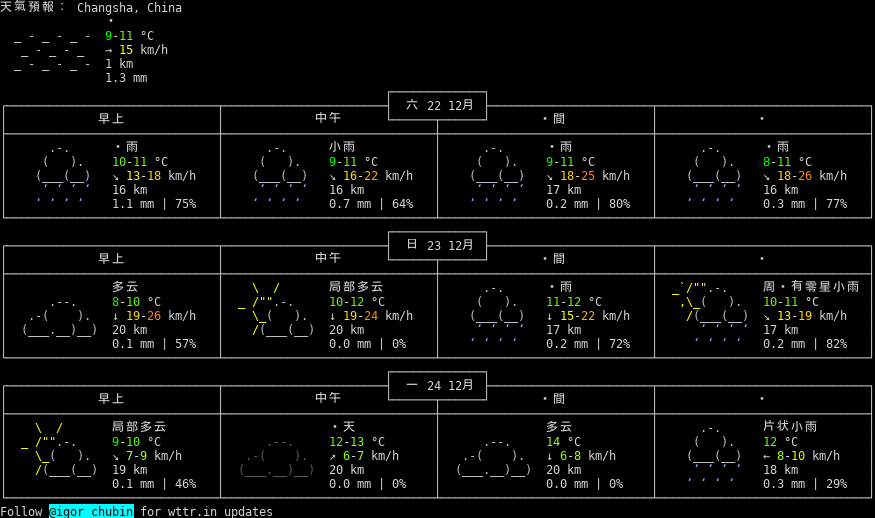
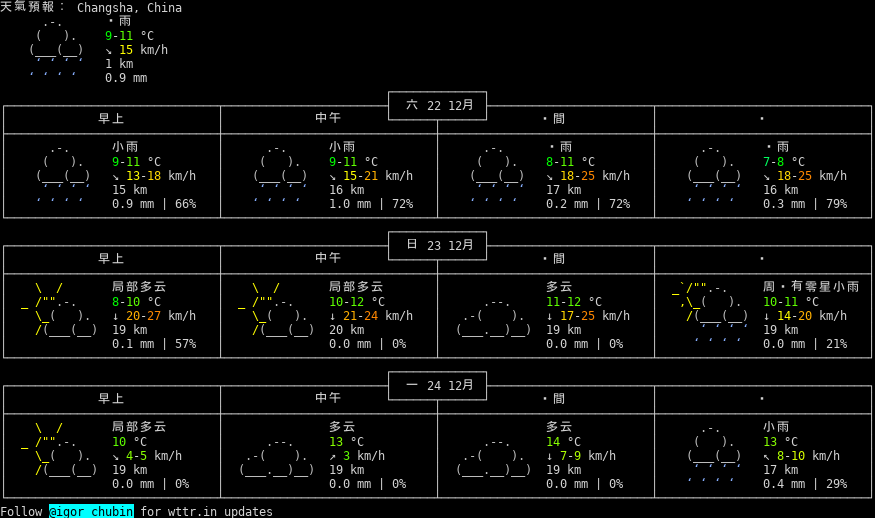
update Today's log:)

diff --git a/README.md b/README.md
@@ -3601,3 +3601,4 @@ My Shell_script learning note
 * 2018年12月22日 星期Sat AM11:00 CST   天气: 9-11°C (      .-.      Light Rain, Mist)
 * 2018年12月22日 星期Sat AM11:20 CST   天气: 9-11°C (      .-.      Light Rain, Mist)
 * 2018年12月22日 星期Sat AM11:40 CST   天气: 9-11°C (      .-.      Light Rain, Mist)
+* 2018年12月22日 星期Sat PM12:00 CST   天气: 9-11°C (      .-.      Light Rain, Mist)

diff --git a/weather.md b/weather.md
@@ -14233,3 +14233,7 @@
 
 ![](PNG/20181222.png)
 
+2018年 12月 22日
+
+![](PNG/20181222.png)
+
